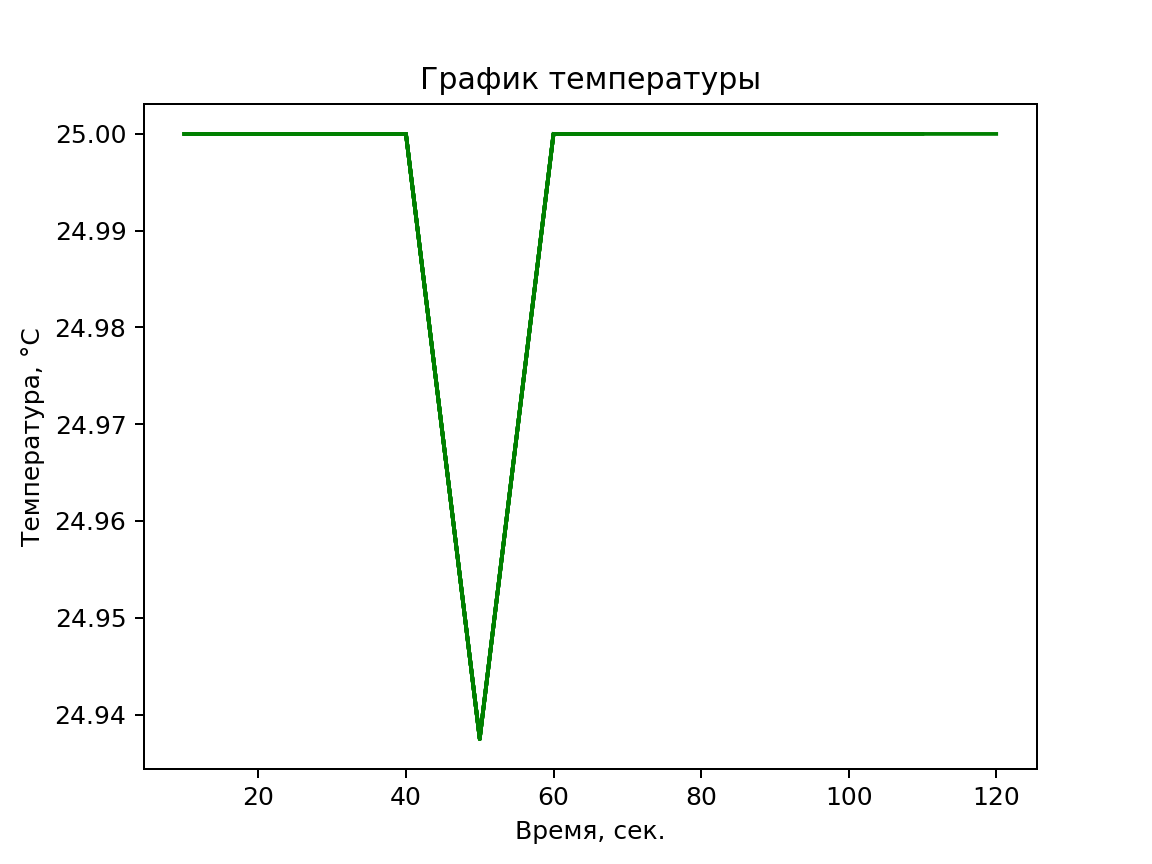
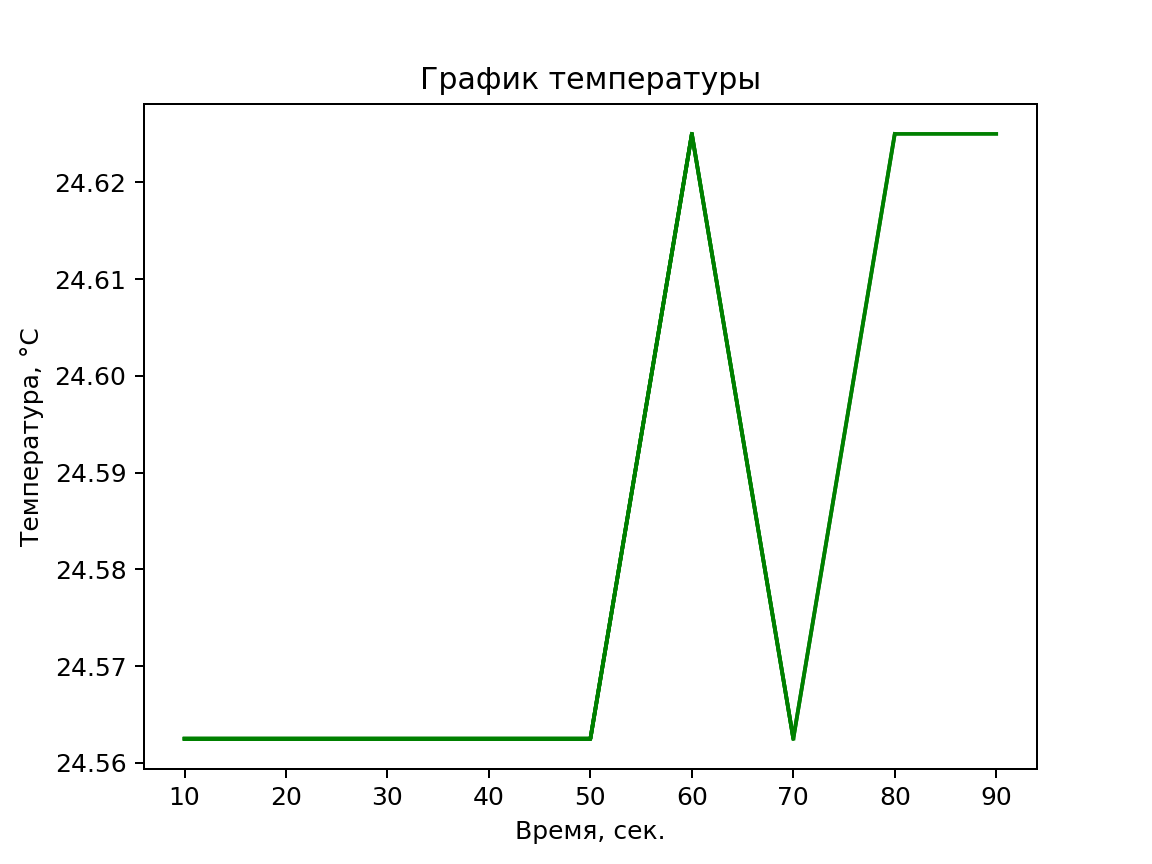
Добавлен сервер отправки в InfluxDB

diff --git a/send_2_influxdb.py b/send_2_influxdb.py
@@ -1,0 +1,101 @@
+import serial
+from datetime import datetime
+import time
+
+import subprocess
+import sys
+
+import json
+from influxdb import InfluxDBClient
+
+
+# --- Настройки InfluxDB ---
+INFLUXDB_HOST = '192.168.0.209'  # Укажите ваш хост, если отличается
+INFLUXDB_PORT = 8086
+INFLUXDB_USER = 'icinga'      # Укажите вашего пользователя
+INFLUXDB_PASSWORD = 'supersecret' # Укажите ваш пароль
+INFLUXDB_DB = 'icinga2'
+INFLUXDB_MEASUREMENT = 'smart-fan'
+
+# Инициализация клиента InfluxDB
+influx_client = InfluxDBClient(
+    host=INFLUXDB_HOST,
+    port=INFLUXDB_PORT,
+    username=INFLUXDB_USER,
+    password=INFLUXDB_PASSWORD,
+    database=INFLUXDB_DB
+)
+
+
+
+
+# Функция отправки данных в InfluxDB
+def send_to_influxdb(data):
+    if not data:
+        return
+
+    # Формирование точки (point) для записи в базу
+    json_body = [
+        {
+            "measurement": INFLUXDB_MEASUREMENT,
+            "tags": {
+                "gpu": "GPU0" # Можно добавить динамическое определение, если карт несколько
+            },
+            "time": datetime.utcfromtimestamp(data["timestamp"] / 1000).isoformat() + "Z", # Время в UTC ISO8601
+            "fields": {
+                "temperature": data["temperature"],
+                "fanSpeedPercentage": data["fanSpeedPercentage"],
+            }
+        }
+    ]
+
+    try:
+        influx_client.write_points(json_body)
+        # print("Данные успешно записаны в InfluxDB")
+    except Exception as e:
+        print(f"Ошибка записи в InfluxDB: {e}")
+
+
+
+
+def fetch_fan_info():
+    
+    cmd = 'python fan_control.py temperature'
+    try:
+        result = subprocess.run(cmd, shell=True, capture_output=True, text=True, check=True)
+        values = result.stdout.strip()
+
+        print(values)
+
+        if len(values) < 1:
+            return None
+        
+        data = {
+            "timestamp": datetime.now().timestamp() * 1000,  # В миллисекундах для Chart.js
+            "temperature": float(values),
+            "fanSpeedPercentage": 0.0
+        }
+
+        return data
+    except subprocess.CalledProcessError as e:
+        print(f"App fan_control error: {e}")
+        return None
+
+
+
+
+def main():
+
+    influx_client.create_database(INFLUXDB_DB)
+
+    while True:
+        time.sleep(5.0)
+        data = fetch_fan_info()
+        if data:
+            # Запись в базу данных (локально)
+            send_to_influxdb(data)      
+
+
+# ---------------------------------------------
+if __name__ == "__main__":
+    main()

diff --git a/get_temp_graph.py b/get_temp_graph.py
@@ -27,7 +27,7 @@ while True:
     time_list.append(counter)
 
     try:
-        temp_from_pico = subprocess.run([sys.executable, "host_command.py", "temperature"], capture_output=True, text=True).stdout.strip()
+        temp_from_pico = subprocess.run([sys.executable, "fan_control.py", "temperature"], capture_output=True, text=True).stdout.strip()
         temp_from_pico = float(temp_from_pico)
         temperature.append(temp_from_pico)
         temp_from_pico_prev = temp_from_pico

diff --git a/fan_control.py b/fan_control.py
@@ -31,7 +31,7 @@ while True:
 
     time.sleep(0.01)
 
+ser.close()
+
 string_data = reply.decode()
 print(f"{string_data}")
-
-ser.close()
